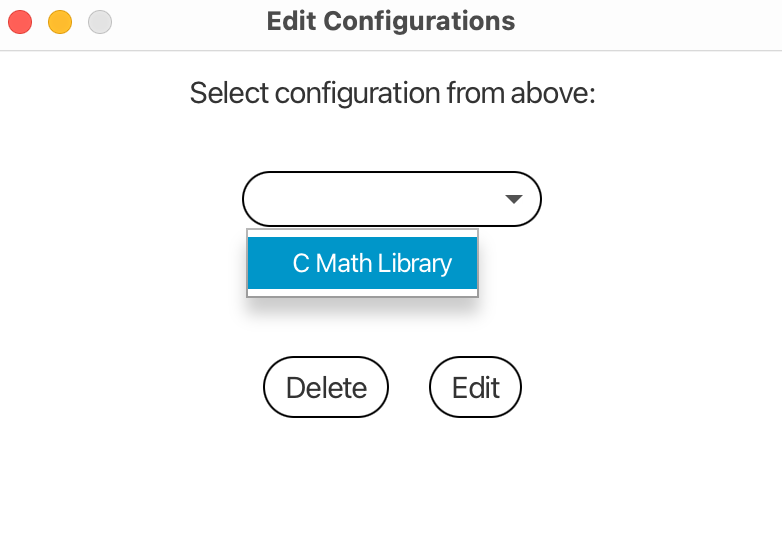
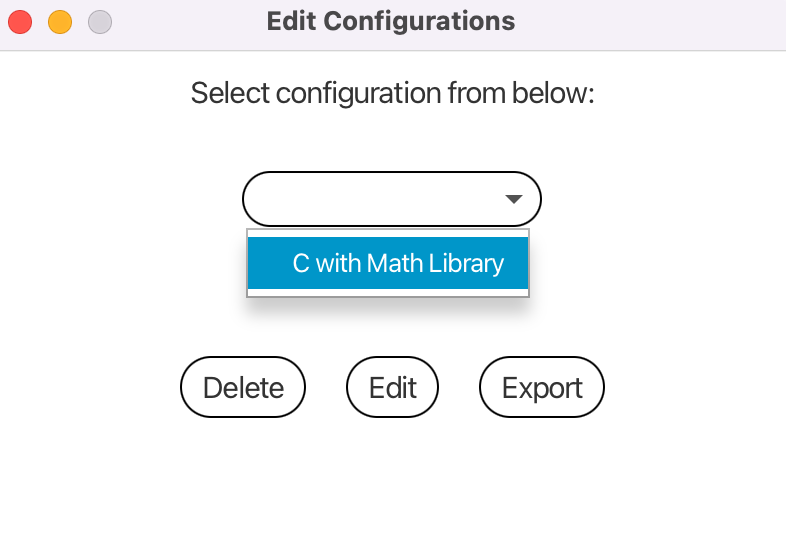
help screen and some UI fixes

diff --git a/iae/src/main/java/com/example/iae/MainController.java b/iae/src/main/java/com/example/iae/MainController.java
@@ -45,34 +45,20 @@ public class MainController {
 
     public void initialize() {
         configurationsList = readConfigurationsFromFile();
-        /*
-         * Config c1 = new Config("a", "x", "x", "x");
-         * Config c2 = new Config("b", "y", "y", "y");
-         * Config c3 = new Config("c", "z", "z", "z");
-         * Config c4 = new Config("d", "t", "t", "t");
-         * 
-         * Project p1 = new Project("1", "ab", "ab", c1);
-         * Project p2 = new Project("2", "c", "c", c2);
-         * Project p3 = new Project("3", "d", "d", c3);
-         * Project p4 = new Project("4", "e", "e", c4);
-         * 
-         * configurationsList.add(c1);
-         * configurationsList.add(c2);
-         * configurationsList.add(c3);
-         * configurationsList.add(c4);
-         * 
-         * p1.addStudent(new Student("20200", true));
-         * p1.addStudent(new Student("20300", false));
-         * p1.addStudent(new Student("20400", true));
-         * p1.addStudent(new Student("20500", false));
-         * 
-         * DBConnection.getInstance().addProject(p1);
-         * DBConnection.getInstance().addProject(p2);
-         * DBConnection.getInstance().addProject(p3);
-         * DBConnection.getInstance().addProject(p4);
-         */
-        projects = DBConnection.getInstance().getAllProjects();
+    /*
+        Config c1 = new Config("C with Math Library", "C", "-lm", "/usr/bin");
 
+        Project p1 = new Project("C Iterative Fibonacci Project!", "ab", "ab", c1);
+        configurationsList.add(c1);
+
+        p1.addStudent(new Student("20200602014", true));
+        p1.addStudent(new Student("20200602020", false));
+        p1.addStudent(new Student("20200602029", true));
+        p1.addStudent(new Student("20200602031", false));
+
+        DBConnection.getInstance().addProject(p1);
+        projects = DBConnection.getInstance().getAllProjects();
+    */
         projects = DBConnection.getInstance().getAllProjects();
         addProjectsToList();
     }
@@ -108,15 +94,19 @@ public class MainController {
 
     @FXML
     private void editConfigurations() throws IOException {
-        configurationStatus = "edit configurations";
-        Stage stage = new Stage();
-        FXMLLoader fxmlLoader = new FXMLLoader(getClass().getResource("ConfigurationScreen.fxml"));
-        Parent root = fxmlLoader.load();
-        Scene scene = new Scene(root);
-        stage.setTitle("Edit Configurations");
-        stage.setScene(scene);
-        stage.setResizable(false);
-        stage.showAndWait();
+        if (configurationsList.size() != 0) {
+            configurationStatus = "edit configurations";
+            Stage stage = new Stage();
+            FXMLLoader fxmlLoader = new FXMLLoader(getClass().getResource("ConfigurationScreen.fxml"));
+            Parent root = fxmlLoader.load();
+            Scene scene = new Scene(root);
+            stage.setTitle("Edit Configurations");
+            stage.setScene(scene);
+            stage.setResizable(false);
+            stage.showAndWait();
+        }
+        else
+            alertErrorWindow("Error","There is no configuration on the program. Please create configuration first.");
     }
 
     @FXML
@@ -151,7 +141,10 @@ public class MainController {
 
         }
     }
-
+    @FXML
+    private void importConfiguration(){
+        // import configuration to configurationList and to configurations file
+    }
     protected ArrayList<Config> readConfigurationsFromFile() {
         ArrayList<Config> configurationsList = new ArrayList<>();
         try {

diff --git a/iae/src/main/java/com/example/iae/ConfigurationController.java b/iae/src/main/java/com/example/iae/ConfigurationController.java
@@ -114,6 +114,10 @@ public class ConfigurationController extends MainController {
             saveConfigurationsToFile(configurationsList);
         }
     }
+    @FXML
+    private void exportConfiguration(){
+        // export selected configuration from choice box.
+    }
 
     @FXML
     private void editScreen() {
@@ -147,5 +151,6 @@ public class ConfigurationController extends MainController {
             e.getCause().printStackTrace();
         }
     }
+
 
 }

diff --git a/iae/src/main/java/com/example/iae/HelpController.java b/iae/src/main/java/com/example/iae/HelpController.java
@@ -36,7 +36,7 @@ public class HelpController {
 
     @FXML
     private void nextPage() {
-        if (index < 6) {
+        if (index < 3) {
             stackPane.getChildren().get(index++).setVisible(false);
             stackPane.getChildren().get(index).setVisible(true);
             buttonStyleSwap(prevButton, buttons[index]);
